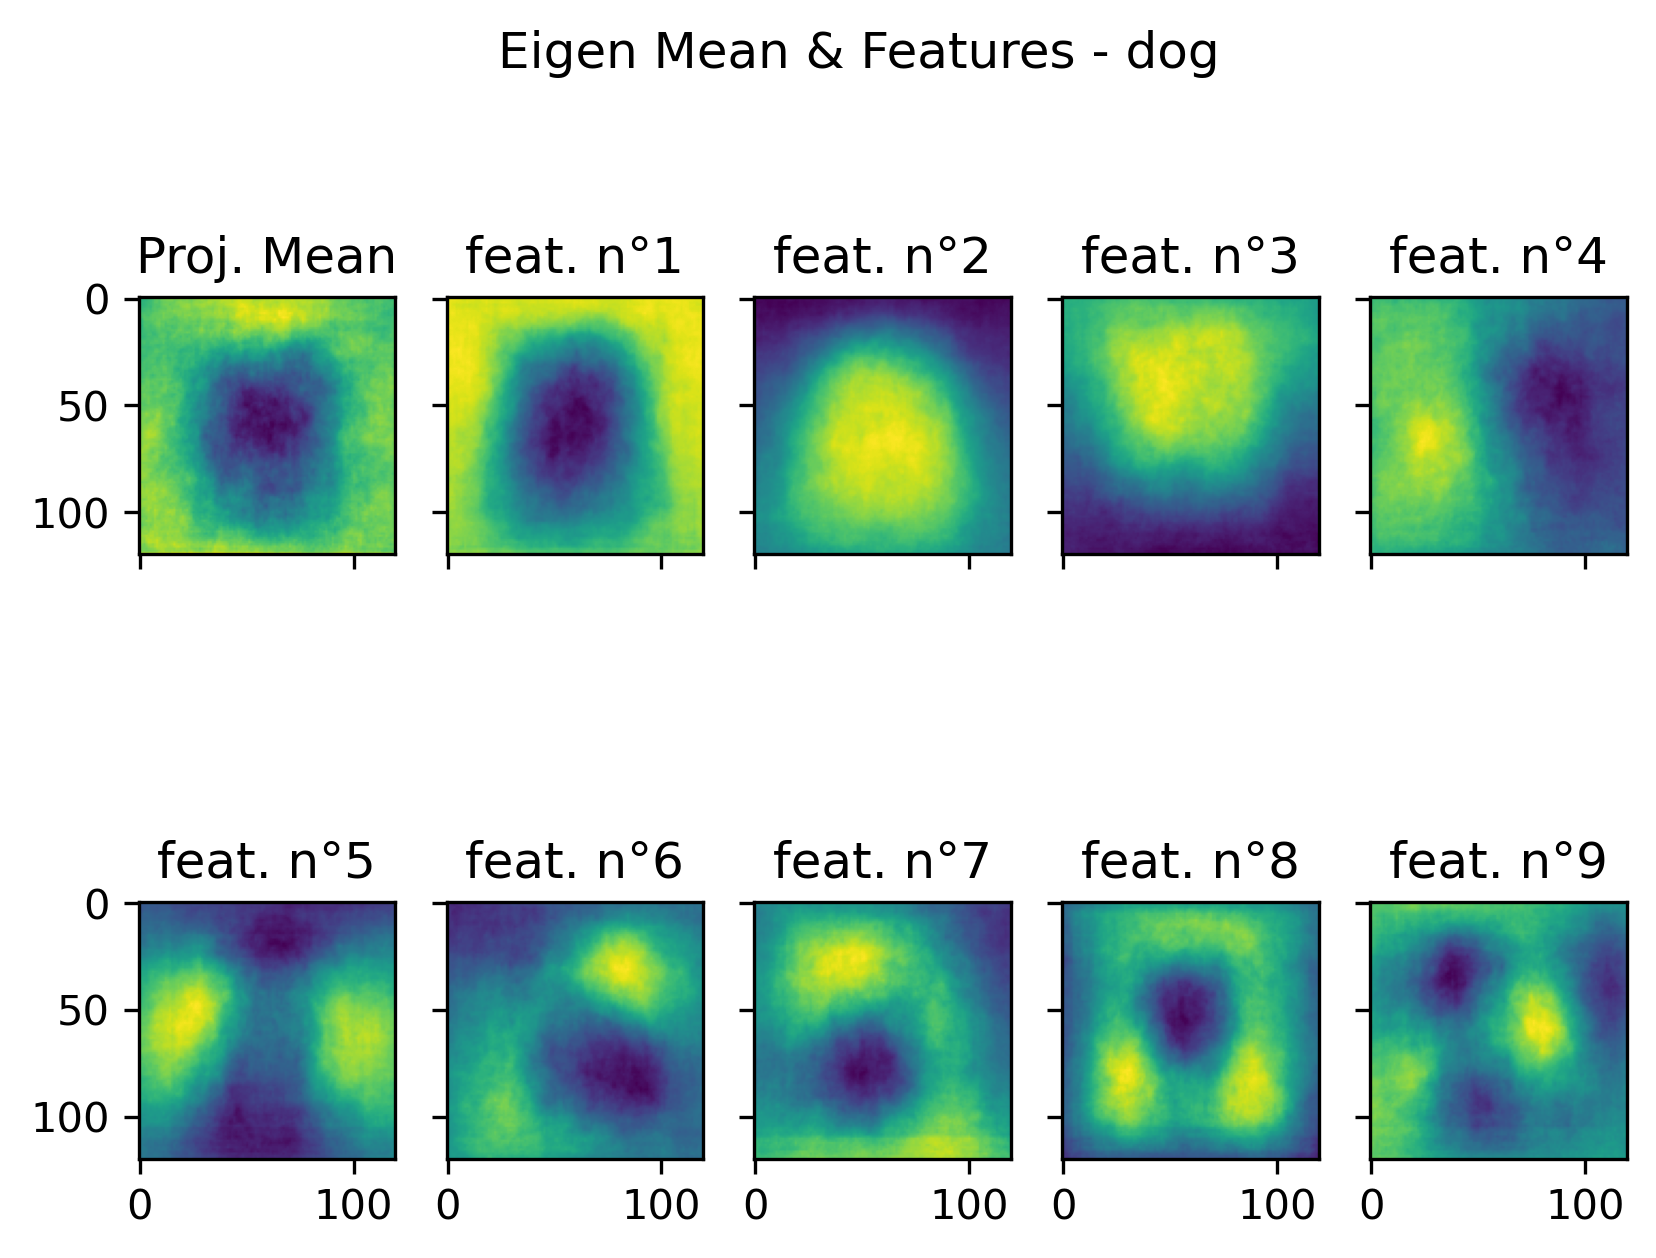
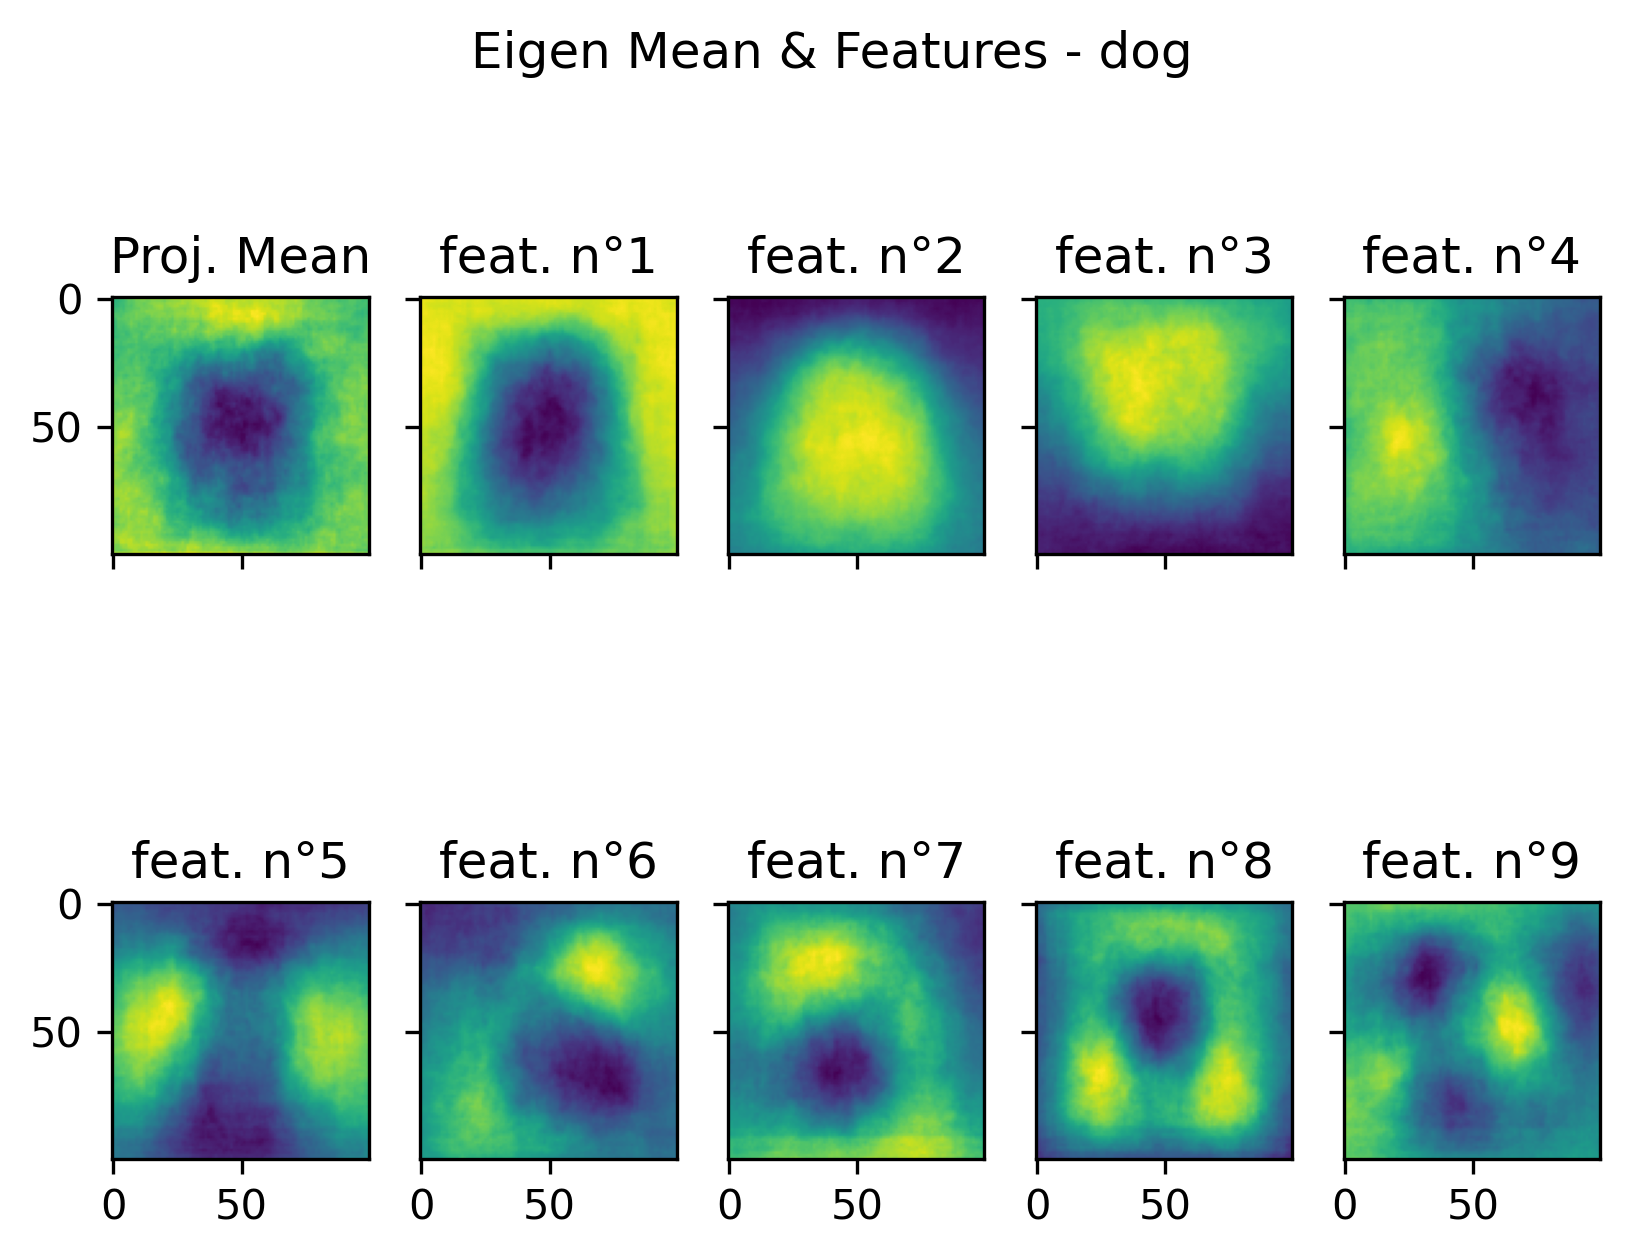
saving progress

diff --git a/final_project/PCA_based_KNN_animal_classification.py b/final_project/PCA_based_KNN_animal_classification.py
@@ -377,15 +377,15 @@ if __name__ == '__main__':
 
   ''' NBUG config
   '''
-  #skip_data_load = True # just to save time
+  skip_data_load = True # just to save time
   skip_process_raw_data = True # set to False to save time, set True for first use.
-  #skip_process_dataXY = True # just to save dev time
+  skip_process_dataXY = True # just to save dev time
   skip_to_eigenXY = True # used saved PCA dataset
 
   ''' run config
   '''
   prt = True
-  image_size = 120 # pixels, equal height and width
+  image_size = 100 # pixels, equal height and width
   samples_per_class = 1000
   shuffles = 10 # shuffle n times to mix data
   testfrac = .2 # 0-1.0 | test set fraction of main set
@@ -405,7 +405,7 @@ if __name__ == '__main__':
       with open('dataset.json', 'wb') as dataset_file:
         pkl.dump(data, dataset_file)
     else: # load previously loaded dataset
-      print('--> Loading dataset object from binary file...')
+      print('---> Loading dataset object from binary file...')
       with open('dataset.json', 'rb') as dataset_file:
         data = pkl.load(dataset_file)
 
@@ -443,55 +443,58 @@ if __name__ == '__main__':
       plot_utility(label, image_size, V, img_mean, b)
 
     # print labels
-    print('--> labels:')
+    print()
+    print('---> labels:')
     pp(labels)
     print()
 
     # save processed dataset object
-    print('--> Saving dataXY object from binary file...')
+    print('---> Saving dataXY object to binary file...')
     with open('dataXY.json', 'wb') as dataXY_file:
       pkl.dump(dataXY, dataXY_file)
 
     # save keysXY dataset object
-    print('--> Saving keysXY object from binary file...')
+    print('---> Saving keysXY object to binary file...')
     with open('keysXY.json', 'wb') as keysXY_file:
       pkl.dump(keysXY, keysXY_file)
 
     # save eigenXY dataset object
-    print('--> Saving eigenXY object from binary file...')
+    print('---> Saving eigenXY object to binary file...')
     with open('eigenXY.json', 'wb') as eigenXY_file:
       pkl.dump(eigenXY, eigenXY_file)
 
   else:
     if skip_to_eigenXY == False:
       # load processed dataset object
-      print('--> Loading dataXY object from binary file...')
+      print('---> Loading dataXY object from binary file...')
       with open('dataXY.json', 'rb') as dataXY_file:
         dataXY = pkl.load(dataXY_file)
 
       # load keysXY dataset object
-      print('--> Loading keysXY object from binary file...')
+      print('---> Loading keysXY object from binary file...')
       with open('keysXY.json', 'rb') as keysXY_file:
         keysXY = pkl.load(keysXY_file)
     else:
       # load eigenXY dataset object
-      print('--> Loading eigenXY object from binary file...')
+      print('---> Loading eigenXY object from binary file...')
       with open('eigenXY.json', 'rb') as eigenXY_file:
         eigenXY = pkl.load(eigenXY_file)
 
   ''' keysXY: set of keys for all known classes
   '''
-  print('Class keys (mean projection):')
-  pp(keysXY)
-
+  #print()
+  #print('Class keys (mean projection):')
+  #pp(keysXY)
+  print()
   print('Processed dataset (PCA):')
   pp(eigenXY)
-
+  print()
   print('Shuffling processed dataset (PCA):')
   set_trace() # ----------------------------------------------------------------------------->>>>>>
 
   for _ in range(shuffles):
     eigenXY = np.random.shuffle(eigenXY)
+  print()
   print('Processed dataset (PCA): please inspect...')
   pp(eigenXY)
 
@@ -500,7 +503,7 @@ if __name__ == '__main__':
 
   test_size = int(testfrac * nSamps)
 
-  testXY = eigenXY[np.random.choice(nSamps, size=test_size, replace=False), :]
+  testXY = eigenXY[np.random.choice(nSamps, size=test_size, replace=False)]
   testX = copy.deepcopy(testXY[:][:-1])
   testX = copy.deepcopy(testXY[:][:-1])
 
